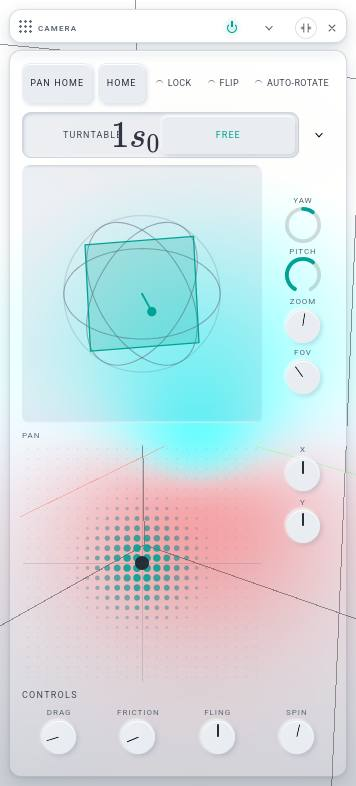
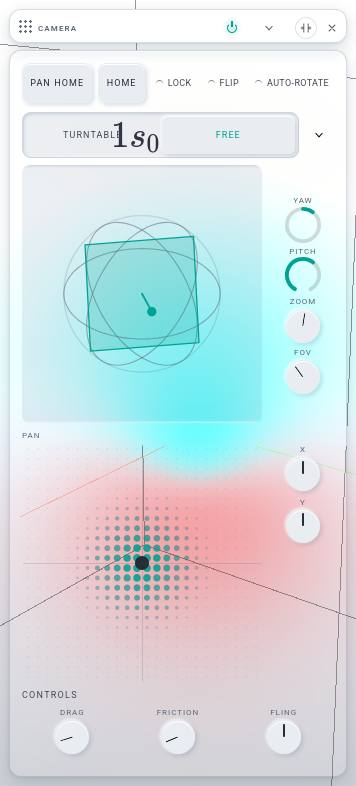
B4 AUTO-ROTATE = FRICTION READ AS 0: μ = autoRotate ? 0 : friction, no ambient drive, the FRICTION knob untouched; SPIN gone (port, CAM, settings); a film rides the held fling as its pose path and restores it after

Changed region(s): [[0.3399, 0.8855, 0.6489, 0.9771], [0.7416, 0.8855, 0.8961, 0.9771], [0.1236, 0.8855, 0.2472, 0.9771]]

diff --git a/lab/camera-law.js b/lab/camera-law.js
@@ -11,24 +11,23 @@
  * 0.5.0 C1 · the panel is that window now, so the fifth edge, `ui` (the dials the law moved by hand), is gone: every change
  * the law makes is a notice, and the panel reads the port on the frame after it. */
 import { quatFromYawPitch, yawPitchFromQuat, turnFree, setParity } from './field.js';
-import { qmul, qnormalize, slerp } from './rotor4.js';   // wave 54: the FREE camera is ONE unit quaternion, and it uses the lab's own rotor library
+import { slerp } from './rotor4.js';   // wave 54: the FREE camera is ONE unit quaternion, and it uses the lab's own rotor library
 
 /* ── THE CAMERA LAW (wave 50, W-CAMERA) ─────────────────────────────────────────────────────────────────────
  * NEBULA carries four motion modes (AUTO-ROTATE × MOMENTUM) and a fling that fights whichever one is on.  We
- * carry ONE first-order law and one constant.  The camera's angular velocity is an AMBIENT drive plus a
- * RESIDUAL, and only the residual relaxes — at the rate μ = FRICTION (1/s):
+ * carry ONE first-order law and one constant.  The camera's angular velocity is the RESIDUAL a fling left, and
+ * it relaxes at the rate μ (1/s):
  *
- *        ω(t) = ω_amb + d(t),     ḋ = −μ d     ⇒     ω(t) = ω_amb + (ω₀ − ω_amb) e^{−μt}
- *        ω_amb = (AUTO-ROTATE ? SPIN : 0,  0)                    — a yaw drive; PITCH has no ambient
+ *        ω(t) = d(t),     ḋ = −μ d     ⇒     ω(t) = ω₀ e^{−μt},     μ = AUTO-ROTATE ? 0 : FRICTION
  *
- * so a fling COMPOSES with the ambient spin and relaxes TO it, never against it (NEBULA's N7, "one coalesced
- * strongest request", as a single equation instead of a state machine).  The four booleans become two dials:
- * μ large is "no momentum" (a flick dies inside half a second), μ moderate is momentum, μ = 0 is NO DECAY —
- * the residual never dies and the view spins forever — crossed with the ambient switch, and every combination
- * is reachable and legible.  THE ANGLE IS THE INTEGRAL of ω, not ω·dt: over a frame of dt the exact solution is
- *        Δyaw = ω_amb·dt + d_y (1 − e^{−μ dt})/μ,   Δpitch = d_p (1 − e^{−μ dt})/μ        (→ d·dt as μ → 0)
- * which is why the whole travel of a fling is closed form — with the ambient off it turns through exactly ω₀/μ
- * and stops — and that identity is what the gate judges (B65), not a screenshot.
+ * Iteration 018 B4 (Josh: "Auto-Rotate should simply … take the 'friction' knob and pretend the knob is set to 0! Clicking
+ * auto-rotate does not change the current 'friction' knob setting"): AUTO-ROTATE is FRICTION READ AS 0 while it is on —
+ * a fling keeps its speed for ever, the FRICTION knob keeps its value, and there is no ambient drive (the SPIN knob left
+ * with it; the port no longer answers `spin`).  μ large is "no momentum" (a flick dies inside half a second), μ moderate
+ * is momentum, μ = 0 is NO DECAY.  THE ANGLE IS THE INTEGRAL of ω, not ω·dt: over a frame of dt the exact solution is
+ *        Δyaw = d_y (1 − e^{−μ dt})/μ,   Δpitch = d_p (1 − e^{−μ dt})/μ        (→ d·dt as μ → 0)
+ * which is why the whole travel of a fling is closed form — it turns through exactly ω₀/μ and stops — and that
+ * identity is what the gate judges (B65), not a screenshot.
  * THE CONSTANTS.  μ ∈ [0, 12] /s in steps of 0.05 (so μ = 0 is EXACTLY reachable), DEFAULT CAM.MU_DEF = 1.0 (wave 50
  * shipped 2.5, and the figures that follow are 2.5's): τ = 1/μ = 0.4 s,
  * a hard flick (3 rad/s) coasts ln(ω₀/ω_rest)/μ ≈ 2.8 s and turns through ω₀/μ = 1.2 rad = 69° — two flicks to
@@ -39,7 +38,7 @@ import { qmul, qnormalize, slerp } from './rotor4.js';   // wave 54: the FREE ca
  * component and keeps its yaw.  THE CAMERA NEVER TOUCHES ψ: it schedules TIER.PRESENT and nothing else, it is
  * not on the undo stack, and reg.version cannot move because of it (§14). */
 export const CAM = { MU_MAX: 12, MU_DEF: 1.0, MU_STEP: 0.05, REST: 0.003, MAX: 12, HIST_MS: 80, STALE_MS: 120, SENS: 0.0065, FINE: 0.25, PITCH: 1.52, DIST: [1.2, 8], FOV: [0.25, 1.2], TAP_MS: 320, HOME: { yaw: 0.65, pitch: 0.38, dist: 3.3, fov: 0.6, shift: Object.freeze([0, 0]) },
-  GAIN: [0.2, 8], GAIN_DEF: 1, GAIN_STEP: 0.01, FLING: [0, 2], FLING_DEF: 1, FLING_STEP: 0.01, SHIFT: 1, SPIN: [0.02, 2], SPIN_DEF: 0.25 };   // C1: SPIN's range, once
+  GAIN: [0.2, 8], GAIN_DEF: 1, GAIN_STEP: 0.01, FLING: [0, 2], FLING_DEF: 1, FLING_STEP: 0.01, SHIFT: 1 };
 /** THE LENS SHIFT's one bound (0.4.0 S2): obs.shift = [px, py] is where the pivot appears on the frame, in NDC (+y up),
  *  each component in [−SHIFT, SHIFT] — the pivot reaches the frame's edge and never leaves it.  A fresh array; anything
  *  that is not a finite number reads 0 (an older project, a hand-edited file). */
@@ -48,22 +47,22 @@ export const clampShift = (s) => [0, 1].map((i) => { const v = s ? +s[i] : 0; re
 export function createCameraLaw({ obs, present: paint, modHand, resetWall }) {
   const subs = new Set(), tell = () => { for (const f of subs) f(); }, present = () => { paint(); tell(); };   // A8: every PRESENT the law asks for is a notice
   const camera = {
-    autoRotate: false, speed: CAM.SPIN_DEF, friction: CAM.MU_DEF,
+    autoRotate: false, friction: CAM.MU_DEF,
     dragGain: CAM.GAIN_DEF, flingGain: CAM.FLING_DEF,   // wave 58: rad/px = dragGain × CAM.SENS · the release is multiplied by flingGain before the law sees it
-    dy: 0, dp: 0,                                    // THE RESIDUAL d = ω − ω_amb (rad/s): the only state the law carries
+    dy: 0, dp: 0,                                    // THE RESIDUAL d = ω (rad/s): the only state the law carries
     t: 0, steps: 0, flings: 0, last: null,           // t: the seconds the law has integrated — the CAMERA clock (§12)
-    get ambient() { return this.autoRotate ? this.speed : 0; },
-    get wy() { return this.ambient + this.dy; },     // ω_yaw
+    get mu() { return this.autoRotate ? 0 : Math.max(0, this.friction); },   // 018 B4: AUTO-ROTATE reads FRICTION as 0, the knob untouched
+    get wy() { return this.dy; },                    // ω_yaw
     get wp() { return this.dp; },                    // ω_pitch
     get omega() { return Math.hypot(this.wy, this.wp); },
-    get moving() { return this.ambient !== 0 || this.dy !== 0 || this.dp !== 0; },   // "the law has something to integrate"
-    /** hand the camera an angular velocity (rad/s, capped at MAX): what the law relaxes is ω − ω_amb.
+    get moving() { return this.dy !== 0 || this.dp !== 0; },   // "the law has something to integrate"
+    /** hand the camera an angular velocity (rad/s, capped at MAX): what the law relaxes.
      *  FLING scales ω₀ FIRST — how much you get — and μ then decides how fast it goes: at gain 0 there is nothing
      *  to decay and the view stops dead on release (the drag itself is untouched), which no value of μ can do. */
     fling(wy, wp = 0) { const G = this.flingGain; wy *= G; wp *= G;
       const m = Math.hypot(wy, wp), k = m > CAM.MAX ? CAM.MAX / m : 1;
       if (m < CAM.REST) { wy = 0; wp = 0; }                                   // gain 0, and anything under half a pixel a second: REST is REST after the gain, not before
-      this.dy = k * wy - this.ambient; this.dp = k * wp; this.flings++; this.last = { wy: this.wy, wp: this.wp, mu: this.friction, gain: G }; this.wake(); return this.omega; },
+      this.dy = k * wy; this.dp = k * wp; this.flings++; this.last = { wy: this.wy, wp: this.wp, mu: this.mu, gain: G }; this.wake(); return this.omega; },
     stop() { this.dy = 0; this.dp = 0; },
     /** the camera clock starts NOW: the first frame after an idle must not integrate the idle */
     wake() { resetWall(); present(); },
@@ -72,7 +71,6 @@ export function createCameraLaw({ obs, present: paint, modHand, resetWall }) {
     setFling(v) { this.flingGain = Math.max(CAM.FLING[0], Math.min(CAM.FLING[1], +v)); tell(); return this.flingGain; },
     get radPerPixel() { return this.dragGain * CAM.SENS; },
     setAutoRotate(v) { this.autoRotate = !!v; this.wake(); return this.autoRotate; },
-    setSpeed(v) { this.speed = v; this.wake(); return v; },
     setDist(v) { return setDist(v); }, setFov(v, c) { return setFov(v, c); }, reset() { resetView(); },
     zoomAt(c, v) { return zoomAt(c, v); }, setShift(x, y) { return setShift(x, y); }, panBy(du, dv) { return panBy(du, dv); },   // 0.4.0 S2
     get lock() { return locked; }, setLock(v) { return setLock(v); },
@@ -153,23 +151,19 @@ export function createCameraLaw({ obs, present: paint, modHand, resetWall }) {
    *  Returns whether the pose moved.  Never called while a finger is on the field — the drag owns the pose then. */
   function cameraStep(dt) {
     if (!(dt > 0)) return false;
-    const mu = Math.max(0, camera.friction), wa = camera.ambient;
+    const mu = camera.mu;
     let iy, ip;                                                                      // ∫₀^dt d(s) ds — the residual's own travel
     if (mu > 0) { const e = Math.exp(-mu * dt), s = (1 - e) / mu; iy = camera.dy * s; ip = camera.dp * s; camera.dy *= e; camera.dp *= e; }
     else { iy = camera.dy * dt; ip = camera.dp * dt; }                               // μ = 0: no decay at all — the fling spins forever
-    if (!wa && Math.hypot(camera.dy, camera.dp) < CAM.REST) { camera.dy = 0; camera.dp = 0; }   // REST: the camera is still, and the loop may stop
+    if (Math.hypot(camera.dy, camera.dp) < CAM.REST) { camera.dy = 0; camera.dp = 0; }   // REST: the camera is still, and the loop may stop
     camera.t += dt; camera.steps++;
     if (obs.mode === 'free') {
-      const amb = wa * dt;                                                           // the AMBIENT is a WORLD axis: LEFT-multiply
-      if (amb) obs.quat = qnormalize(qmul([Math.cos(amb / 2), 0, 0, Math.sin(amb / 2)], obs.quat));
-      if (iy || ip) obs.quat = turnFree(obs.quat, iy, ip);                            // the RESIDUAL is screen-relative: RIGHT-multiply, and no clamp anywhere
-      if (amb || iy || ip) { syncFreeAngles(); return true; }
+      if (iy || ip) { obs.quat = turnFree(obs.quat, iy, ip); syncFreeAngles(); return true; }   // the RESIDUAL is screen-relative: RIGHT-multiply, and no clamp anywhere
       return false;
     }
-    const dyaw = wa * dt + iy;
-    if (dyaw) obs.yaw += dyaw;
+    if (iy) obs.yaw += iy;
     if (ip) { const want = obs.pitch + ip, held = Math.max(-CAM.PITCH, Math.min(CAM.PITCH, want)); if (held !== want) camera.dp = 0; obs.pitch = held; }   // the pole clamp EATS the pitch fling; the yaw runs on
-    return dyaw !== 0 || ip !== 0;
+    return iy !== 0 || ip !== 0;
   }
   /* the camera's pose has ONE road each: the ZOOM dial, the wheel, the pinch and the arrow keys all come through
      zoomAt, so the dial can never lie about where the camera is (and neither can a restored project).
@@ -197,7 +191,7 @@ export function createCameraLaw({ obs, present: paint, modHand, resetWall }) {
   let flipped = false;
   function setFlip(v) { flipped = !!v; setParity(flipped); present(); return flipped; }   // M6: engaged, PAN HOME raw — a routed axis keeps its base, its route is clamped
   /** RESET VIEW (HOME, R, a double-click and a double-tap): the shipped pose and the motion with it —
-      AUTO-ROTATE is a mode, not a pose, so the ambient drive is left exactly where the switch put it */
+      AUTO-ROTATE is a mode, not a pose, so the switch stays where it is */
   function resetView() { const m = obs.mode; camLevel.from = null; Object.assign(obs, CAM.HOME); obs.mode = m; obs.quat = quatFromYawPitch(CAM.HOME.yaw, CAM.HOME.pitch); camera.stop(); present(); }   // wave 54: the pose is the same pose in either mode
   /* ── 0.5.0 A8 · THE PORT (MIR 1.5 panels/camera.js: get / set / subscribe, ranges in the port's unit, angle 'rad', modIds onto the
      saved observer.* routes, turn, home) and brief 1's three hands.  `set` is a HAND's road: a routed axis moves its base, as every
@@ -209,7 +203,7 @@ export function createCameraLaw({ obs, present: paint, modHand, resetWall }) {
   const ROADS = { mode: [() => obs.mode, (v) => setCamMode(v)], zoom: [() => obs.dist, setDist], fov: [() => obs.fov, (v) => setFov(v)],
     panX: [() => sh()[0], (v) => setShift(v, sh()[1], 0)], panY: [() => sh()[1], (v) => setShift(sh()[0], v, 1)],
     yaw: [() => obs.yaw, (v) => modHand('observer.yaw', v) || turn(v - obs.yaw, 0)], pitch: [() => obs.pitch, (v) => modHand('observer.pitch', v) || turn(0, v - obs.pitch)],
-    autoRotate: [() => camera.autoRotate, (v) => camera.setAutoRotate(v)], spin: [() => camera.speed, (v) => camera.setSpeed(v)],
+    autoRotate: [() => camera.autoRotate, (v) => camera.setAutoRotate(v)],
     friction: [() => camera.friction, (v) => camera.setFriction(v)], drag: [() => camera.dragGain, (v) => camera.setDragGain(v)], fling: [() => camera.flingGain, (v) => camera.setFling(v)],
     lock: [() => locked, setLock], flip: [() => flipped, setFlip] };   // 0.5.3 M6: `lock` is not in the kit's vocabulary (the card's LOCK switch is λWAVES'); `flip` is (camera-rig.js), so the panel draws THE FLIP switch (018 B3)
   const pan = (v) => (v > 0 ? '+' : '') + v.toFixed(2);
@@ -218,7 +212,7 @@ export function createCameraLaw({ obs, present: paint, modHand, resetWall }) {
     verbs: Object.freeze([{ label: 'PAN HOME', title: 'PAN HOME — put the pivot back in the middle of the frame', run: () => { setShift(0, 0); } }]),
     modIds: Object.freeze({ yaw: 'observer.yaw', pitch: 'observer.pitch', zoom: 'observer.dist', fov: 'observer.fov', panX: 'observer.panx', panY: 'observer.pany' }),
     ranges: Object.freeze({ zoom: R(...CAM.DIST, H.dist, { log: true, fmt: 'zoom' }), fov: R(...CAM.FOV, H.fov), yaw: R(0, 2 * Math.PI, H.yaw),
-      pitch: R(-CAM.PITCH, CAM.PITCH, H.pitch), panX: R(-CAM.SHIFT, CAM.SHIFT, 0, { fmt: pan }), panY: R(-CAM.SHIFT, CAM.SHIFT, 0, { fmt: pan }), spin: R(...CAM.SPIN, CAM.SPIN_DEF),
+      pitch: R(-CAM.PITCH, CAM.PITCH, H.pitch), panX: R(-CAM.SHIFT, CAM.SHIFT, 0, { fmt: pan }), panY: R(-CAM.SHIFT, CAM.SHIFT, 0, { fmt: pan }),
       drag: R(...CAM.GAIN, CAM.GAIN_DEF, { step: CAM.GAIN_STEP, log: false }), friction: R(0, CAM.MU_MAX, CAM.MU_DEF, { step: CAM.MU_STEP }),
       fling: R(...CAM.FLING, CAM.FLING_DEF, { step: CAM.FLING_STEP }) }) };
   return { camera, camTravel, camLevel, syncFreeAngles, orbitBy: told(orbitBy), keyOrbitMoving, queueKeyOrbit, stepKeyOrbit: told(stepKeyOrbit), setCamMode,

diff --git a/lab/render-exact.js b/lab/render-exact.js
@@ -20,8 +20,8 @@
  *   1  THE PHYSICS CLOCK (clock.js).  Analytic.  ψ is a closed form of t.  A frame at t needs NO frame before it.
  *      → the frame SETS it: `clock.scrub(at(k))`.  Order-free, restartable, seekable.
  *   2  THE CAMERA CLOCK (camera-law.js `cameraStep`).  An INTEGRATOR: ω decays as e^{−μ dt} and the pose accumulates
- *      ∫ω dt, stepped with a WALL interval every frame, plus an AMBIENT drift of `camera.speed` rad per wall second
- *      while AUTO-ROTATE is on.  There is no pose(t) to evaluate.
+ *      ∫ω dt, stepped with a WALL interval every frame (AUTO-ROTATE reads μ as 0, 018 B4: a fling then never decays).
+ *      There is no pose(t) to evaluate.
  *      → a film REFUSES a moving camera (or stills it), and offers a POSE PATH instead: `poseAt(k, N)` is a pure
  *        function of the frame index, which is what a rendered camera move should have been all along.
  *   3  THE MODULATION CLOCK (mir/host.js).  Also an integrator, irreducibly: every source carries a one-pole SMOOTH
@@ -441,7 +441,7 @@ export const HAZARDS = Object.freeze([
   hz('governor', 'app', 'the rack\'s one controller judges the window median of presented frames against the frame budget and steps the FIELD GRID down the ladder (128 → 96 → 64) on a slow machine — the picture literally coarsens with machine speed', 'rack.js loop, controlStep / gov / effectiveRes', 'the physics clock is paused (the governor only acts while playing, and pausing resets its drop) and governor.on is turned off for the film', 'field.resolution is compared against its reading before frame 0 after every frame'),
   hz('autoscale', 'app', 'quality.autoScale is moved by ONE time-paced proportional decision and multiplies the size the rack asks field.resize for; a window resize or a DPR change does the same, and NOTHING PRESENTS when they do', 'rack.js loop, autoQ', 'quality.auto = false for the film, restored after', 'canvas.width/height are read AT the readback, after the copy completes — the one place a resize between the render and the copy cannot slip past'),
   hz('fieldclock', 'app', 'the rack reconstructs psi on an EVOLVE tier only when the field clock is due, so a capped field clock renders the same picture twice', 'rack.js loop, fieldRate.capMs / lastReconMs', 'the frame bypasses the tier router and passes a non-null modes to field.frame, so the compute pass is unconditional', 'field.stats.generation advances by exactly one per frame'),
-  hz('camera', 'app', 'the camera pose is an integrator: omega decays as exp(-mu dt) and AUTO-ROTATE drifts at camera.speed rad per WALL second', 'camera-law.js cameraStep', 'a moving camera is refused; or stilled (dy = dp = 0, autoRotate off) and restored. A camera move comes from poseAt(k, N), a pure function of the frame index', 'camera.moving is false, and obs is what the schedule wrote'),
+  hz('camera', 'app', 'the camera pose is an integrator: omega decays as exp(-mu dt) on the WALL clock (AUTO-ROTATE reads mu as 0: a fling never decays)', 'camera-law.js cameraStep', 'a moving camera is refused; or stilled (dy = dp = 0, autoRotate off) and restored. A camera move comes from poseAt(k, N), a pure function of the frame index', 'camera.moving is false, and obs is what the schedule wrote'),
   hz('modulation', 'kit', 'the modulation rack runs on the wall clock, and its one-pole SMOOTH filters and envelopes accumulate dt — there is no modulated(t) to evaluate', 'rack.js loop → mir/host.js advanceTo', "'freeze': the rack stops it (every target back to base) and the recorder is built with no host, so it steps nothing; 'drive': the kit's record clock (render/clock.js) replays it FROM FIRST SPACE at exactly 1/fps a frame and puts the live runtime back in one operation", "frozen: LW.mod.running is false for the whole film; driven: the kit's clock holds the realtime pump suspended"),
   hz('modealias', 'app', 'LW.modesAt(t) returns a module-level array of module-level records rewritten in place, so anything that calls modesAt between our call and field.frame\'s consumption rewrites our modes', 'rack.js modesAt / modeRecs', 'modesAt is evaluated inline in the draw, with nothing between', 'covered by the jitter witness — an interloper that could rewrite the modes had to present to do it'),
   hz('interloper', 'app', 'any schedule() from anywhere arms a rAF that resizes the canvas, presents with an unpinned seed and advances the modulation on wall time', 'rack.js schedule / loop', 'the rack\'s own hold while a film owns the page (exportLocked: no rAF is armed), and a drain before frame 0', 'the jitter, generation and size witnesses all fire; the frame is rendered again, and one that will not settle aborts the film by name'),
@@ -588,7 +588,7 @@ export function createFilm(LW, opts = {}) {
         case 'jitter': return { state: 'live', blocking: false, value: f && f.ok ? f.stats.presents : null, note: 'the jitter counter is running; a film pins it to ' + JITTER_SEED + ' for every frame' };
         case 'governor': return { state: (LW.governor && LW.governor.on) ? 'live' : 'off', blocking: false, value: LW.governor ? LW.governor.drop : null, note: (LW.governor && LW.governor.drop) ? 'THE GOVERNOR HAS ALREADY STEPPED THE GRID DOWN ' + LW.governor.drop + ' notch(es): this machine is rendering a coarser volume than the one you set. Pausing restores it, and a film pauses.' : 'the governor is armed; a film pauses the clock and turns it off, which is what disarms it' };
         case 'autoscale': return { state: (LW.quality && LW.quality.auto) ? 'live' : 'off', blocking: false, value: LW.quality ? LW.quality.autoScale : null, note: 'auto scale ' + ((LW.quality && LW.quality.auto) ? 'is on; a film holds it off and renders at the size asked for' : 'is off') };
-        case 'camera': { const m = !!(LW.camera && LW.camera.moving); return { state: m ? 'live' : 'off', blocking: m, value: LW.camera ? { dy: LW.camera.dy, dp: LW.camera.dp, ambient: LW.camera.ambient } : null, note: m ? 'THE CAMERA IS MOVING' + (LW.camera.ambient ? ' (AUTO-ROTATE is on)' : ' (a fling is still coasting)') + ': its pose is an integrator on the wall clock, so a film would depend on machine speed. camera: "still" brings it to rest; poseAt(k, N) is a camera move that IS deterministic.' : 'the camera is at rest' }; }
+        case 'camera': { const m = !!(LW.camera && LW.camera.moving); return { state: m ? 'live' : 'off', blocking: m, value: LW.camera ? { dy: LW.camera.dy, dp: LW.camera.dp, autoRotate: LW.camera.autoRotate } : null, note: m ? 'THE CAMERA IS MOVING' + (LW.camera.autoRotate ? ' (a fling held by AUTO-ROTATE)' : ' (a fling is still coasting)') + ': its pose is an integrator on the wall clock, so a film would depend on machine speed. camera: "still" brings it to rest; poseAt(k, N) is a camera move that IS deterministic.' : 'the camera is at rest' }; }
         case 'modulation': { const r = !!(LW.mod && LW.mod.running); return { state: r ? 'live' : 'off', blocking: r, value: r, note: r ? 'THE MODULATION RACK IS RUNNING on the wall clock, and its smoothing filters accumulate. A film freezes it (every target back to its knob), or modulation: "drive" hands it to the kit\'s record clock, FROM FIRST SPACE at 1/fps a frame.' : 'the modulation rack is not running' }; }
         case 'interloper': { const s = !!(LW.stats && LW.stats.scheduled); return { state: s ? 'live' : 'off', blocking: false, value: s, note: s ? 'a rack frame is scheduled; a film drains it and the per-frame witnesses catch any that arrive anyway' : 'no rack frame is scheduled' }; }
         case 'gamut': return { state: (f && f.ok && f.gamut && f.gamut !== 'srgb') ? 'live' : 'off', blocking: false, value: f && f.ok ? f.gamut : null, note: (f && f.ok && f.gamut && f.gamut !== 'srgb') ? 'THIS CANVAS IS ' + f.gamut + ': the film is declared display-p3 to the kit\'s encoder' : 'the canvas is sRGB' };
@@ -610,7 +610,7 @@ export function createFilm(LW, opts = {}) {
     const f = field(), pinned = J.pinned;
     J.prev = { playing: LW.clock.playing, t: LW.clock.t, rate: LW.clock.rate, cfg: cfgUsage,
       qAuto: LW.quality ? LW.quality.auto : null, qScale: LW.quality ? LW.quality.scale : null, gov: LW.governor ? LW.governor.on : null,
-      camAuto: LW.camera ? LW.camera.autoRotate : null, modPlaying: !!(LW.mod && LW.mod.playing),
+      camAuto: LW.camera ? LW.camera.autoRotate : null, camD: LW.camera ? [LW.camera.dy, LW.camera.dp] : null, modPlaying: !!(LW.mod && LW.mod.playing),
       presents: f && f.stats ? f.stats.presents : 0, canvasW: canvas ? canvas.width : 0, canvasH: canvas ? canvas.height : 0 };
     if (opts.hold) await opts.hold(true);
     if (f && f.pinRenderPipeline) f.pinRenderPipeline(true);   // optimization K2: the whole film draws with the GENERIC present pipeline
@@ -639,7 +639,7 @@ export function createFilm(LW, opts = {}) {
       if (f && f.pinRenderPipeline) f.pinRenderPipeline(false);
       if (canvas && P.canvasW) { canvas.width = P.canvasW; canvas.height = P.canvasH; }
       if (LW.quality && P.qAuto !== null) { LW.quality.auto = P.qAuto; LW.quality.scale = P.qScale; }
-      if (LW.camera && P.camAuto !== null) LW.camera.autoRotate = P.camAuto;
+      if (LW.camera && P.camAuto !== null) { LW.camera.autoRotate = P.camAuto; [LW.camera.dy, LW.camera.dp] = P.camD; if (LW.camera.moving && LW.camera.wake) LW.camera.wake(); }   // the fling goes on, from now (wake: no film-long step)
       if (LW.governor && P.gov !== null) LW.governor.on = P.gov;
       if (f && f.stats) f.stats.presents = P.presents + J.log.length;   // the diagnostic counter, put back honestly: the frames really did happen
       if (!J.host && P.modPlaying && LW.mod && LW.mod.play) LW.mod.play();
@@ -810,7 +810,7 @@ export function createFilm(LW, opts = {}) {
       const unpin = new Set(o.unpin || []), pinned = (id) => !unpin.has(id);
       const camMode = o.camera || DEFAULTS.camera, drive = o.modulation === 'drive', format = o.format === 'mp4' ? 'mp4' : 'png';
       if (LW.camera && LW.camera.moving && pinned('camera') && camMode === 'refuse') {
-        return { ok: false, refused: true, hazard: 'camera', error: 'THE CAMERA IS MOVING. Its pose is an integrator on the wall clock — ' + (LW.camera.ambient ? 'AUTO-ROTATE is on' : 'a fling is still coasting') + ' — so this film would depend on how fast the machine ran. Bring it to rest, pass camera: "still" to have the film do it, or hand a poseAt(k, N) for a camera move that is a function of the frame index and therefore exact.' };
+        return { ok: false, refused: true, hazard: 'camera', error: 'THE CAMERA IS MOVING. Its pose is an integrator on the wall clock — ' + (LW.camera.autoRotate ? 'AUTO-ROTATE holds a fling' : 'a fling is still coasting') + ' — so this film would depend on how fast the machine ran. Bring it to rest, pass camera: "still" to have the film do it, or hand a poseAt(k, N) for a camera move that is a function of the frame index and therefore exact.' };
       }
       const size = P.size || sizeFor(o);
       const J = job = { token: 'lw-' + (++token) + '-' + Math.round(now()), sched, N, fps, pinned, drive, host: drive, format, size, kind: o.kind || P.kind || sched.mode,

diff --git a/lab/shell/settings.js b/lab/shell/settings.js
@@ -33,10 +33,10 @@ export function createSettings(app) {
       settingsStore.write({ nativeLayout:useCompactDefaults?1:S0.nativeLayout, nbW: S0.nbW, nbH: S0.nbH, abW: S0.abW, abH: S0.abH, layouts: S0.layouts, warned: S0.warned, audioDevice: S0.audioDevice, captions: !document.body.classList.contains('no-captions'),   // iteration 007: INFORMATIONAL's six keys left for their own record, lambdawaves.q0.info (shell/stage-words.js)
         auto: app.sh.quality.auto, governor: app.ctl.gov.on, keepFrames: app.ctl.keep.frames, perfMode: app.ctl.perf.mode,
         /* WAVE 51 · THE CAMERA'S FEEL IS A PREFERENCE, not a project's (wave 50 built FRICTION / SPIN / AUTO-ROTATE and
-           none of the three survived a reload).  FRICTION and SPIN are how the instrument FEELS in the hand and they
-           belong beside FROST and GOVERNOR.  AUTO-ROTATE is deliberately NOT here: a lab that starts turning by itself
+           none of the three survived a reload).  FRICTION is how the instrument FEELS in the hand (SPIN left at 018 B4) and it
+           belongs beside FROST and GOVERNOR.  AUTO-ROTATE is deliberately NOT here: a lab that starts turning by itself
            when you open it is a surprise, not a setting. */
-        friction: app.host.camera.friction, spin: app.host.camera.speed, dragGain: app.host.camera.dragGain, fling: app.host.camera.flingGain, camLock: app.host.camera.lock, audio: !!(ui.audioSw && ui.audioSw.get()), askOk: ASK_ENABLED ? ui.askOk || undefined : S0.askOk, askUrl: ASK_ENABLED ? (ui.askUrlIn && ui.askUrlIn.value.trim()) || undefined : S0.askUrl,   /* iteration 011 Q6: ASK hidden → the stored pair carried as it was */   // wave 58: the two View-window dials are the same kind of preference as FRICTION and SPIN (0.5.0 C4: the MOD power and cadence are the kit's record, saveMod); 0.5.3 M6: the camera's LOCK too
+        friction: app.host.camera.friction, dragGain: app.host.camera.dragGain, fling: app.host.camera.flingGain, camLock: app.host.camera.lock, audio: !!(ui.audioSw && ui.audioSw.get()), askOk: ASK_ENABLED ? ui.askOk || undefined : S0.askOk, askUrl: ASK_ENABLED ? (ui.askUrlIn && ui.askUrlIn.value.trim()) || undefined : S0.askUrl,   /* iteration 011 Q6: ASK hidden → the stored pair carried as it was */   // wave 58: the two View-window dials are the same kind of preference as FRICTION and SPIN (0.5.0 C4: the MOD power and cadence are the kit's record, saveMod); 0.5.3 M6: the camera's LOCK too
         /* WAVE 64 · THE PORTED WINDOW'S PRESENTATION STATE, and it is the sixth of the six things
            host-contract.md says a host owes it: where the window sits, which lane the work bars are
            in, each device's F/C/M mode, the ribbon, and whether it was left open.  The RACK itself
@@ -91,8 +91,7 @@ export function createSettings(app) {
     if (s.governor === false) app.ctl.setGovernor(false);                 // wave 45: the governor held off
     if (s.keepFrames === true) app.ctl.setKeepFrames(true);              // wave 45: the playhead follows every frame (off by default)
     app.ctl.setPerfMode(s.perfMode === 'full' ? 'full' : '120');         // an absent key takes the official 120 Hz profile; an explicit FULL choice survives
-    if (typeof s.friction === 'number') app.host.camera.setFriction(s.friction);   // wave 51: the camera's feel comes back …
-    if (typeof s.spin === 'number') app.host.camera.setSpeed(s.spin);              // … but AUTO-ROTATE never does (see saveSettings)
+    if (typeof s.friction === 'number') app.host.camera.setFriction(s.friction);   // wave 51: the camera's feel comes back … but AUTO-ROTATE never does (see saveSettings); 018 B4: SPIN left, an old `spin` is read by nothing
     if (typeof s.dragGain === 'number') app.host.camera.setDragGain(s.dragGain);   // wave 58: DRAG GAIN and FLING ride beside them
     if (typeof s.fling === 'number') app.host.camera.setFling(s.fling);
     if (typeof s.camLock === 'boolean') app.host.camera.setLock(s.camLock);       // 0.5.3 M6: the classic camera (pan held at the centre), off when nothing was said

diff --git a/lab/windows/film.js b/lab/windows/film.js
@@ -6,7 +6,7 @@ export function createFilmApi(app) {
     let exact = null, cap = null, facadeRun = null;
     const caption = () => { const c = app.w.stageCaption(), ch = app.state.chem, s = c && (ch && ch.on ? ch.said : statusOf({ owner: app.reg.P && app.reg.P.stark ? 'stark' : getHamiltonian().id, Z: getHamiltonian().id === 'atom' ? getHamiltonian().Z : 0 })); return (s ? c + ' · ' + s.word : c) + (c ? app.w.wignerView.caption() : ''); };   // 0.8.2 P1: + ' · WIGNER · ∫|W| − 1 = …' while that window is open · 0.5.4 P4c (PLAN §J-3): the EXPORT caption is the stage's words + its STATE word (MOLECULES' kept status, else the owner's), read at the take, never in a frame; STAGE FORMULA off stays ''
     const film = () => exact || (exact = createFilm(app.sh.LW, { canvas: dom.canvas, energies: app.w.periodEnergies, canvasCap: 16384, host: () => app.state.modHost, hold: filmHold,
-      road: { pending: () => ({ caption: caption(), spin: camera.ambient && obs.mode !== 'free' ? camera.ambient : 0, yaw0: obs.yaw }), step: rotStep, rotating: rotDriving,
+      road: { pending: () => ({ caption: caption(), /* 018 B4: AUTO-ROTATE holds a fling at μ = 0, so its yaw is yaw0 + dy·t — the film's pose path */ spin: camera.autoRotate && obs.mode !== 'free' ? camera.dy : 0, yaw0: obs.yaw }), step: rotStep, rotating: rotDriving,
         plan: (o) => capture().planLoop(o) } }));   // the rack's own for the film's three schedules (take) and the card's road
     const capture = () => cap || (cap = createCapture(app.sh.LW, { canvas: dom.canvas, canvasCap: 16384, energies: app.w.periodEnergies, caption }));   // wave 58: capture reads the SAME energies periodNow() does, never the labels' ⟨H⟩; 0.4.0 S3: and draws the STAGE TEXT's caption
     const take = async (kind, o, keep) => {

diff --git a/lab/windows/material.js b/lab/windows/material.js
@@ -267,7 +267,7 @@ export function createMaterial(app) {
        PREFERENCE, so a hand on it saves the settings (coalesced).  `mod` is the modulation port WITHOUT `add`: the panel registers no
        target — the saved observer.* routes stay the defs' below, whose knob accessors are these dials (camKnobs) — and a hand on a
        routed dial writes its base (modHand), as everywhere. */
-    const gc = group(wCam.body, 'CAMERA'), FEEL = new Set(['spin', 'friction', 'drag', 'fling']); let feelSave = 0;
+    const gc = group(wCam.body, 'CAMERA'), FEEL = new Set(['friction', 'drag', 'fling']); let feelSave = 0;
     const camPanel = createCameraPanel({ mode: '3d', modPrefix: 'observer', project: false, mod,
       port: { ...cameraPort, set(id, v) { cameraPort.set(id, v); if (FEEL.has(id)) { clearTimeout(feelSave); feelSave = setTimeout(saveSettings, 250); } },
         turn(dy, dp) { cameraPort.turn(dy, dp); const s = camView.sphere; s.yaw.set(cameraPort.get('yaw')); s.pitch.set(cameraPort.get('pitch')); } } });   // 0.5.3 M5: the kit's port.turn road never sets the sphere's arcs and its sync skips a sphere mid-drag, so the rings' arrow froze until a later notice (and each step turned from the stale arrow): it follows the hand here, per move (MIR-BRIEF-sphere.md)
